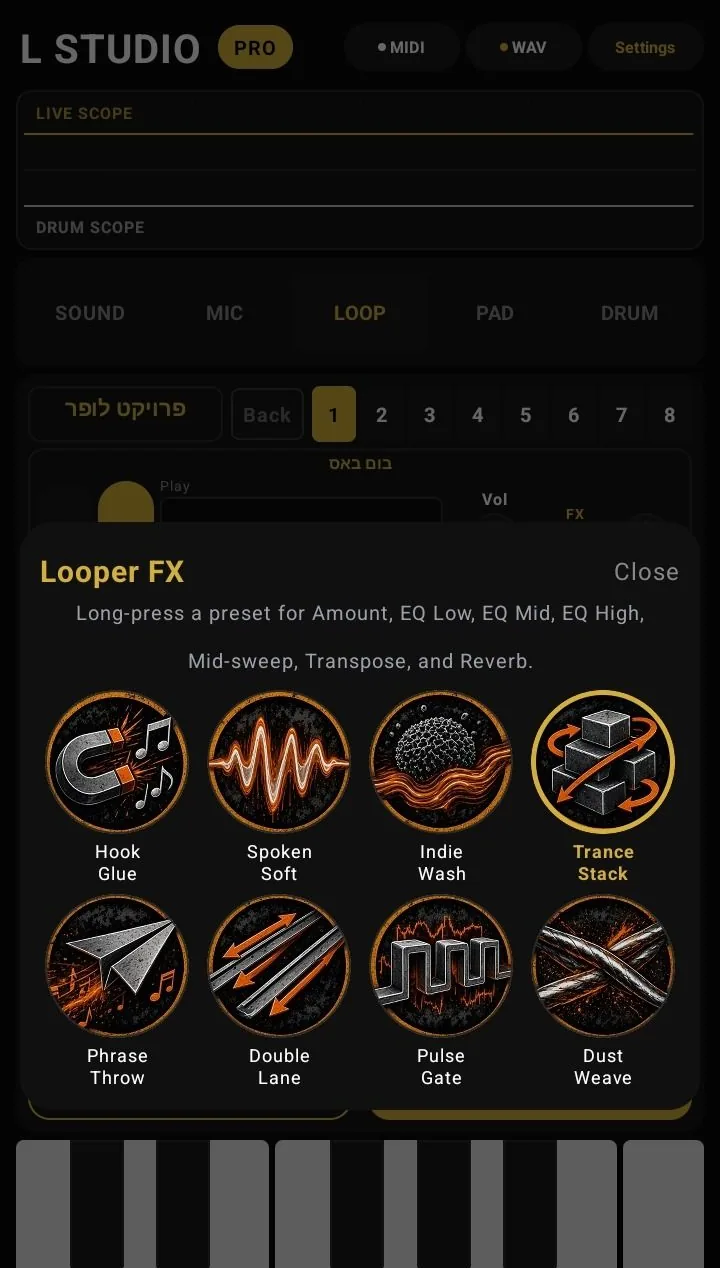
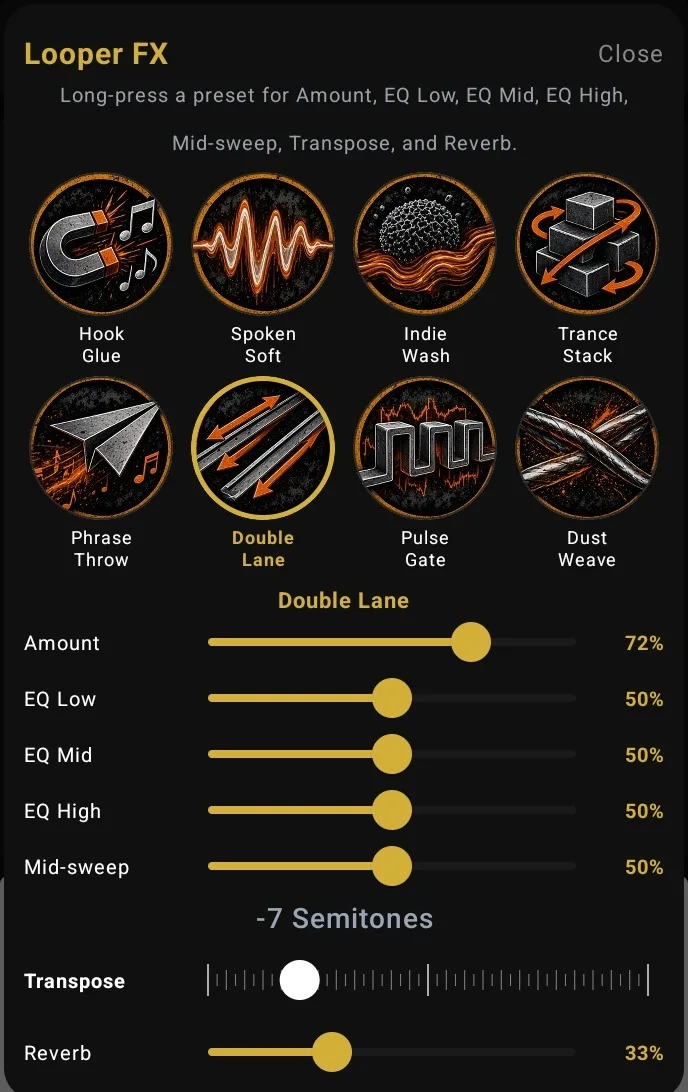
Site 1.08: Page name dialog and Looper FX screenshots
- Loop guide: loop-page-name.jpg, the Page name dialog from David's 1.08 screenshot, next to the page long-press line.
- Looper FX: the 1.08 crop replaces guide looper-fx-window.jpg and comes back as updates looper-fx.jpg/.webp on Studio workflow refresh, with alt text in all 4 languages.
- Updates still sizes match the files (looper-back, looper-fx, sound-fx, looper-pages).
- CONTENT_EDITING.md: only presets-window.jpg is still missing.

Changed region(s): [[0.0, 0.1245, 1.0, 1.0], [0.0305, 0.0, 0.7631, 0.0934], [0.7936, 0.0311, 0.9767, 0.0934]]

diff --git a/client/src/pages/Updates.tsx b/client/src/pages/Updates.tsx
@@ -33,8 +33,10 @@ function webpUrl(path: string) {
 const STILL_SIZE: Record<string, { width: number; height: number }> = {
   "/assets/updates/drum-fx.jpg": { width: 720, height: 1348 },
   "/assets/updates/mic-fx.jpg": { width: 720, height: 1472 },
-  "/assets/updates/looper-back.jpg": { width: 720, height: 1268 },
-  "/assets/updates/looper-fx.jpg": { width: 720, height: 1268 },
+  "/assets/updates/looper-back.jpg": { width: 720, height: 1468 },
+  "/assets/updates/looper-fx.jpg": { width: 688, height: 1092 },
+  "/assets/updates/sound-fx.jpg": { width: 720, height: 1468 },
+  "/assets/updates/looper-pages.jpg": { width: 720, height: 1468 },
   "/assets/updates/lyrics.jpg": { width: 720, height: 1344 },
   "/assets/updates/user-guide-style-random.jpg": { width: 640, height: 857 },
   "/assets/updates/exclusive-packs-poster.jpg": { width: 1024, height: 1536 },

diff --git a/CONTENT_EDITING.md b/CONTENT_EDITING.md
@@ -10,7 +10,7 @@ Do not change the JSON punctuation, keys, or braces. Change only the text betwee
 
 Long guide copy lives under `languages.*.guide`. The page is five screens in `groups[]`: Sound, Pad, Drum, Loop, and Mic. Each group has a `body`, a cropped `media` photo, and optional `sections[]` for the windows on that screen. Write Hebrew first, then the same facts in English, Russian, and Arabic. Keep all four languages in sync. Say what a tap, a drag, or a long-press does. Do not write that a control is or is not a button. The only source for behavior is the code of `dudichatam-max/L-studio` branch `google-play-pro`: the control map at commit `468c5bce` (1.07) plus the 1.08 changes at merge commit `6fc86da`. If the map does not say what a control does, leave that sentence out. Optional `media` paths are relative to the site root. Every published group and section needs a real cropped app photo. Do not invent images. Crop off the clock, battery, signal, and Android navigation bar. Do not cut off labels. Do not use an em dash. Do not call L Studio a DAW. Do not add a download link or a ZIP link. There is no Redo control. Do not add one. Back is on Mic and Loop only. A tap restores the most recently cleared take on that screen. It does not change screens. It is enabled only when a restore slot exists. LIVE still allows Back when that slot exists. Optional `images` adds more real screenshots after `media`. Each still sits in the same 1px gold border (radius 10px). The image uses `object-fit: contain` so the whole photo stays visible. On a narrow screen the photo moves under the text at full column width. Do not add an empty border. The guide page has no illustration video. Homepage Shorts, Exclusive, and Updates keep their own videos.
 
-Leave `assets/mic-window.jpg` in git when another page still uses it. Do not replace the Updates stills in `assets/updates/` unless the app screen they show has changed. `looper-back.jpg` now shows the 1.08 Loop screen. Guide crops are the real app JPEGs under `assets/guide/` (and the same files in `client/public/assets/guide/`). Do not redraw them. The live guide uses `sound-screen.jpg`, `sound-tones.jpg`, `octave.jpg`, `sound-fx-window.jpg`, `freq-window.jpg`, `drive-slider.jpg`, `volume-knobs.jpg`, `keys.jpg`, `scales-window.jpg`, `settings-window.jpg`, `pad-screen.jpg`, `drum-screen.jpg`, `drum-fx-window.jpg`, `drum-styles-window.jpg`, `pattern-repeats.jpg`, `loop-screen.jpg`, `loop-pages.jpg`, `looper-fx-window.jpg`, `mic-screen.jpg`, `mic-fx-window.jpg`, and `lyrics-window.jpg`. `drive-slider.jpg` is the Drive slider. `volume-knobs.jpg` is the Volume row. `freq-window.jpg` is the Tune frequencies window, opened from Custom Frequency in Settings. `sound-fx-window.jpg` is the Sound FX window. `loop-pages.jpg` is the Loop name field, Back, and the colored page numbers. The full screens and `settings-window.jpg`, `volume-knobs.jpg`, `sound-fx-window.jpg`, and `loop-pages.jpg` are cropped from David's 1.08 screenshots. `settings-window.jpg` is cropped 1:1 from the app area of the designer's `06-presets.png` (Settings with the row title Custom Frequency, the 1.08 string fix); its headline and caption are not in the crop. There is no mic page 1/2 section. There is no Redo image. Removed until new screenshots arrive: `presets-window.jpg` (Presets section, it shows the old Import/Export page JSON labels), `looper-fx.jpg` (Updates, old Loop header), and there is no Page name dialog shot yet. The sections and text stay; add the image references back only when David sends the new screens. Whoever buys Pro also gets the Exclusive pack free, at no extra cost, and there is no download button. Do not add a ZIP link.
+Leave `assets/mic-window.jpg` in git when another page still uses it. Do not replace the Updates stills in `assets/updates/` unless the app screen they show has changed. `looper-back.jpg` now shows the 1.08 Loop screen. Guide crops are the real app JPEGs under `assets/guide/` (and the same files in `client/public/assets/guide/`). Do not redraw them. The live guide uses `sound-screen.jpg`, `sound-tones.jpg`, `octave.jpg`, `sound-fx-window.jpg`, `freq-window.jpg`, `drive-slider.jpg`, `volume-knobs.jpg`, `keys.jpg`, `scales-window.jpg`, `settings-window.jpg`, `pad-screen.jpg`, `drum-screen.jpg`, `drum-fx-window.jpg`, `drum-styles-window.jpg`, `pattern-repeats.jpg`, `loop-screen.jpg`, `loop-pages.jpg`, `loop-page-name.jpg`, `looper-fx-window.jpg`, `mic-screen.jpg`, `mic-fx-window.jpg`, and `lyrics-window.jpg`. `drive-slider.jpg` is the Drive slider. `volume-knobs.jpg` is the Volume row. `freq-window.jpg` is the Tune frequencies window, opened from Custom Frequency in Settings. `sound-fx-window.jpg` is the Sound FX window. `loop-pages.jpg` is the Loop name field, Back, and the colored page numbers. `loop-page-name.jpg` is the Page name dialog (long-press on a page number). `looper-fx-window.jpg` and `assets/updates/looper-fx.jpg` are the same 1.08 Looper FX crop (Double Lane selected). The full screens and `settings-window.jpg`, `volume-knobs.jpg`, `sound-fx-window.jpg`, and `loop-pages.jpg` are cropped from David's 1.08 screenshots. `settings-window.jpg` is cropped 1:1 from the app area of the designer's `06-presets.png` (Settings with the row title Custom Frequency, the 1.08 string fix); its headline and caption are not in the crop. There is no mic page 1/2 section. There is no Redo image. Removed until new screenshots arrive: `presets-window.jpg` (Presets section, it shows the old Import/Export page JSON labels). The sections and text stay; add the image references back only when David sends the new screens. Whoever buys Pro also gets the Exclusive pack free, at no extra cost, and there is no download button. Do not add a ZIP link.
 
 Nav labels for the guide live under `languages.*.nav.guide`.
 
@@ -62,7 +62,7 @@ Current pairings:
 - `sound-fx-looper-pages`: status `in_progress` until the team lead confirms 1.08 is on Google Play. `sound-fx.jpg` (Sound FX, Psy Orbit selected) and `looper-pages.jpg` (Loop screen with colored page numbers and a page name). `href` is `/guide`. Do not say it is on Google Play.
 - `drum-fx`: `drum-fx.jpg` only (Drum FX, one of eight effects selected). Status bar and system navigation are cropped. Do not name Comp or Gate in the alt.
 - `mic-fx-and-back`: `mic-fx.jpg` (Phone Line) and `looper-back.jpg` (Back on the looper). Status bar and system navigation are cropped.
-- `studio-workflow-refresh`: `lyrics.jpg` (lyrics teleprompter). `looper-fx.jpg` is removed until a 1.08 Looper FX screenshot arrives. The summary says the looper has 8 pages and 4 channels on each page, 32 channels in all. Do not call L Studio a DAW. Do not mention Comp or Gate. Do not call Redo undo. Status bar and system navigation are cropped.
+- `studio-workflow-refresh`: `lyrics.jpg` (lyrics teleprompter) and `looper-fx.jpg` (1.08 Looper FX window, Double Lane). The summary says the looper has 8 pages and 4 channels on each page, 32 channels in all. Do not call L Studio a DAW. Do not mention Comp or Gate. Do not call Redo undo. Status bar and system navigation are cropped.
 - `exclusive-packs-gallery`: status `shipped`. Still is `exclusive-packs-poster.jpg`, the Exclusive Pro poster (11 kits, Pro unlock). It is promotional art, not a phone shot, so it is not cropped like a status bar. `href` is `/exclusive`. The copy says whoever buys Pro also gets the Exclusive pack free, at no extra cost, and there is no download button. The site only describes the packs.
 - `early-access-play`: no screenshot. `href` is `/#early-access`. The summary asks visitors to fill the Early Access form on the home page for a Google Play Internal testing spot. It does not promise an APK email or a public APK download.
 - `user-guide-style-random`: `user-guide-style-random.jpg`. `href` is `/guide`. The summary says Style opens the Drum Style window and Random builds another pattern in the current style. Do not describe a Random genre window.
